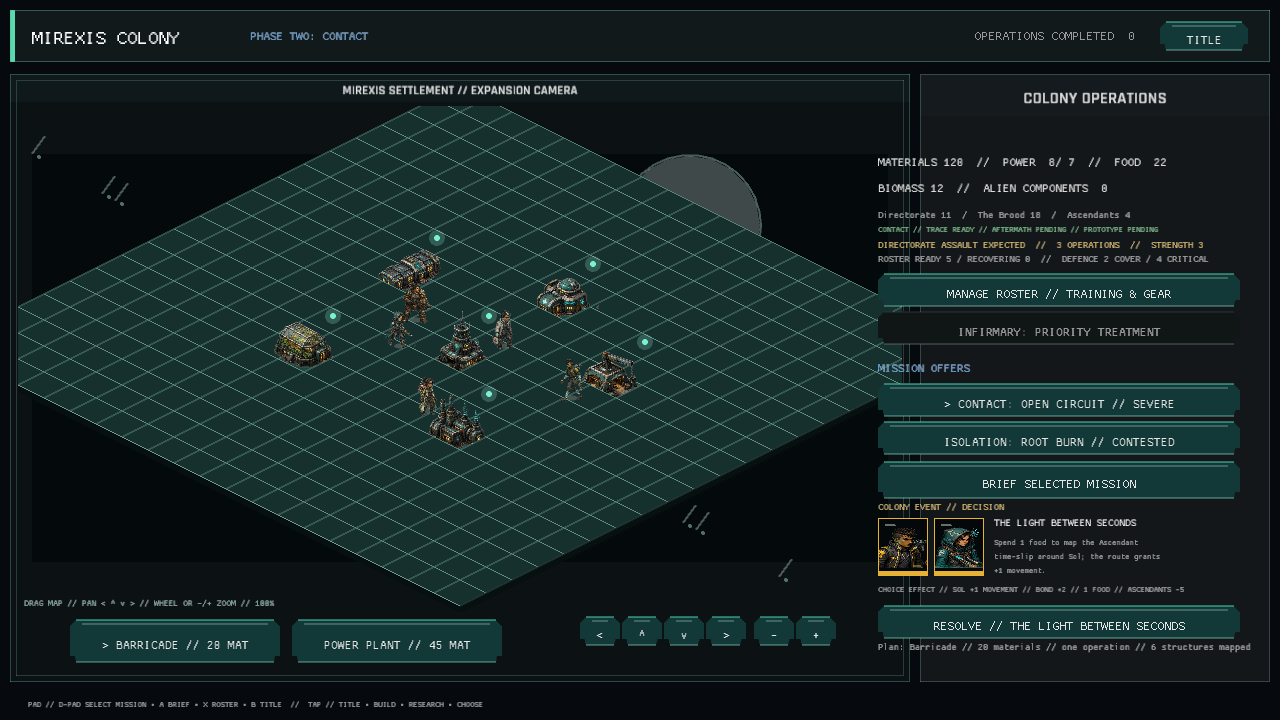
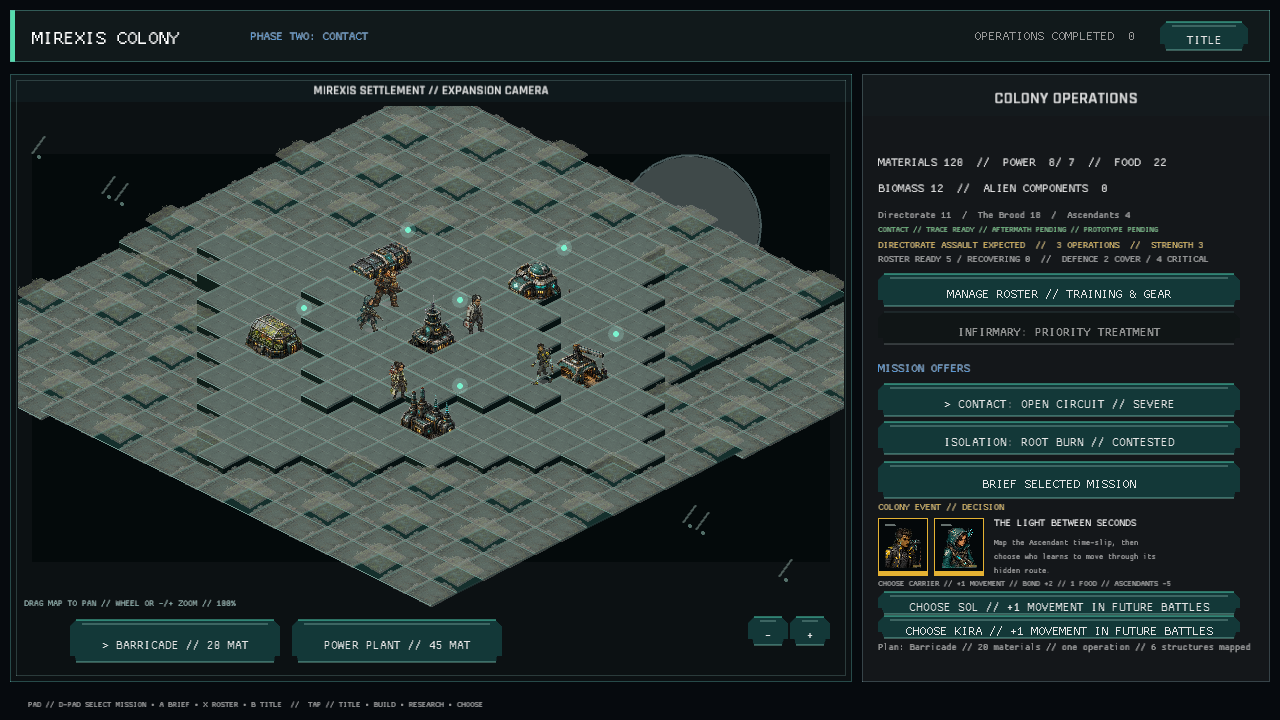
Every colony event leaves its legacy with the colonist who accepts it (two-participant event choices)
Colony events previously resolved through one button even though their fiction presented two participants and a lasting combat consequence. Replace that automatic outcome with two visible tap targets, each naming the participant and the exact stat carried into future battles.

Route the selected participant through campaign resolution, validate the choice before spending resources, and attach the existing persistent event legacy to that colonist. Keep the legacy default resolver for capture and migration fixtures. Refresh event copy, add coverage for alternative and invalid selections, and replace the canonical contact-event verification capture.

Validation: cargo test (221 unit tests plus the source-size guard), capture audit (85 scenes), and publish.ps1 all pass.

diff --git a/src/campaign.rs b/src/campaign.rs
@@ -351,11 +351,44 @@ impl CampaignState {
     }
 
     pub fn resolve_first_character_event(&mut self, data: &GameData) -> Result<String, String> {
+        let recipient_id = self
+            .strategy
+            .available_event()
+            .and_then(|event| {
+                (!event.legacy_character_id.is_empty())
+                    .then_some(event.legacy_character_id.as_str())
+            })
+            .or_else(|| {
+                self.strategy.available_event().and_then(|event| {
+                    data.campaign
+                        .events
+                        .iter()
+                        .find(|definition| definition.id == event.id)
+                        .map(|definition| definition.legacy_character_id.as_str())
+                })
+            })
+            .ok_or_else(|| "No event legacy recipient".to_owned())?
+            .to_owned();
+        self.resolve_first_character_event_for(&recipient_id, data)
+    }
+
+    pub fn resolve_first_character_event_for(
+        &mut self,
+        recipient_id: &str,
+        data: &GameData,
+    ) -> Result<String, String> {
         let event = self
             .strategy
             .available_event()
             .cloned()
             .ok_or_else(|| "No unresolved character events".to_owned())?;
+        if !event
+            .participants
+            .iter()
+            .any(|participant| participant == recipient_id)
+        {
+            return Err("Choose one of the event participants".to_owned());
+        }
         let data_legacy = data
             .campaign
             .events
@@ -364,29 +397,26 @@ impl CampaignState {
             .map(|definition| {
                 (
                     definition.legacy_name.clone(),
-                    definition.legacy_character_id.clone(),
                     definition.legacy_stat.clone(),
                     definition.legacy_amount,
                 )
             });
-        let (legacy_name, legacy_character_id, legacy_stat, legacy_amount) =
-            if event.legacy_amount != 0 {
-                (
-                    event.legacy_name.clone(),
-                    event.legacy_character_id.clone(),
-                    event.legacy_stat.clone(),
-                    event.legacy_amount,
-                )
-            } else {
-                data_legacy.unwrap_or_default()
-            };
+        let (legacy_name, legacy_stat, legacy_amount) = if event.legacy_amount != 0 {
+            (
+                event.legacy_name.clone(),
+                event.legacy_stat.clone(),
+                event.legacy_amount,
+            )
+        } else {
+            data_legacy.unwrap_or_default()
+        };
         if legacy_amount != 0
             && !self
                 .roster
                 .iter()
-                .any(|character| character.id == legacy_character_id)
+                .any(|character| character.id == recipient_id)
         {
-            return Err(format!("Unknown legacy recipient: {}", legacy_character_id));
+            return Err(format!("Unknown legacy recipient: {}", recipient_id));
         }
         let title = self.strategy.resolve_first_event(&mut self.colony)?;
         self.strengthen_event_participants(&event.participants);
@@ -394,7 +424,7 @@ impl CampaignState {
             let character = self
                 .roster
                 .iter_mut()
-                .find(|character| character.id == legacy_character_id)
+                .find(|character| character.id == recipient_id)
                 .expect("legacy recipient was validated before event mutation");
             if !character
                 .event_legacies

diff --git a/src/colony_ui.rs b/src/colony_ui.rs
@@ -597,11 +597,6 @@ fn draw_character_event(
         .events
         .iter()
         .find(|definition| definition.id == event.id);
-    let legacy_character_id = if event.legacy_character_id.is_empty() {
-        definition.map_or("", |definition| definition.legacy_character_id.as_str())
-    } else {
-        event.legacy_character_id.as_str()
-    };
     let legacy_stat = if event.legacy_stat.is_empty() {
         definition.map_or("", |definition| definition.legacy_stat.as_str())
     } else {
@@ -629,17 +624,6 @@ fn draw_character_event(
         510.0,
         TextStyle::new(12.0, dark::WARNING).params(),
     );
-    let recipient = campaign
-        .roster
-        .iter()
-        .find(|character| character.id == legacy_character_id)
-        .map_or("UNKNOWN", |character| {
-            character
-                .name
-                .split_whitespace()
-                .next()
-                .unwrap_or("UNKNOWN")
-        });
     if let Some(definition) = definition {
         for (index, participant) in definition.participants.iter().take(2).enumerate() {
             if let Some(character) = campaign
@@ -678,8 +662,7 @@ fn draw_character_event(
     }
     draw_ui_text_ex(
         &format!(
-            "CHOICE EFFECT // {} {:+} {} // BOND +2 // {} FOOD // {} {:+}",
-            recipient.to_uppercase(),
+            "CHOOSE CARRIER // {:+} {} // BOND +2 // {} FOOD // {} {:+}",
             legacy_amount,
             legacy_stat.to_uppercase(),
             event.food_cost,
@@ -687,16 +670,35 @@ fn draw_character_event(
             event.attention_change
         ),
         878.0,
-        592.0,
+        586.0,
         TextStyle::new(10.0, dark::TEXT_DIM).params(),
     );
-    if colony_button(
-        Rect::new(878.0, 606.0, 362.0, 32.0),
-        &format!("RESOLVE // {}", event.title.to_uppercase()),
-        true,
-        mouse,
-    ) {
-        actions.push(UiAction::ResolveCharacterEvent);
+    for (index, participant_id) in event.participants.iter().take(2).enumerate() {
+        let Some(character) = campaign
+            .roster
+            .iter()
+            .find(|character| &character.id == participant_id)
+        else {
+            continue;
+        };
+        let first_name = character
+            .name
+            .split_whitespace()
+            .next()
+            .unwrap_or(&character.name);
+        if colony_button(
+            Rect::new(878.0, 592.0 + index as f32 * 24.0, 362.0, 22.0),
+            &format!(
+                "CHOOSE {} // {:+} {} IN FUTURE BATTLES",
+                first_name.to_uppercase(),
+                legacy_amount,
+                legacy_stat.to_uppercase()
+            ),
+            true,
+            mouse,
+        ) {
+            actions.push(UiAction::ResolveCharacterEvent(participant_id.clone()));
+        }
     }
 }
 

diff --git a/src/campaign/tests/test_part_1.rs b/src/campaign/tests/test_part_1.rs
@@ -379,6 +379,48 @@ fn character_events_leave_participant_legacies_in_later_deployments() {
     );
     assert_eq!(campaign.relationships.len(), 2);
 }
+
+#[test]
+fn character_event_choice_puts_the_legacy_on_the_selected_participant() {
+    let data = GameData::load().unwrap();
+    let mut campaign = CampaignState::new(&data);
+    let kira_base = data
+        .roster
+        .iter()
+        .find(|unit| unit.id == "kira_voss")
+        .unwrap();
+    let movement_before = derive_unit(kira_base, &campaign.roster[0], &data).move_range;
+    let food_before = campaign.colony.resources.food;
+
+    assert_eq!(
+        campaign.resolve_first_character_event_for("not_a_participant", &data),
+        Err("Choose one of the event participants".to_owned())
+    );
+    assert_eq!(campaign.colony.resources.food, food_before);
+
+    campaign
+        .resolve_first_character_event_for("kira_voss", &data)
+        .unwrap();
+
+    let kira = campaign
+        .roster
+        .iter()
+        .find(|character| character.id == "kira_voss")
+        .unwrap();
+    let sol = campaign
+        .roster
+        .iter()
+        .find(|character| character.id == "sol_cairn")
+        .unwrap();
+    assert_eq!(kira.event_legacies[0].name, "Survey Family Routes");
+    assert!(sol.event_legacies.is_empty());
+    assert_eq!(
+        derive_unit(kira_base, kira, &data).move_range,
+        movement_before + 1
+    );
+    assert_eq!(campaign.colony.resources.food, food_before - 2);
+}
+
 #[test]
 fn successful_operations_apply_all_recovered_resources() {
     let data = GameData::load().unwrap();

diff --git a/src/game.rs b/src/game.rs
@@ -375,8 +375,11 @@ impl Game {
                     Err(err) => self.notifications.warning(err),
                 }
             }
-            UiAction::ResolveCharacterEvent => {
-                match self.campaign.resolve_first_character_event(&self.data) {
+            UiAction::ResolveCharacterEvent(character_id) => {
+                match self
+                    .campaign
+                    .resolve_first_character_event_for(&character_id, &self.data)
+                {
                     Ok(title) => {
                         self.notifications
                             .success(format!("Event resolved: {}", title));

diff --git a/src/ui_action.rs b/src/ui_action.rs
@@ -13,7 +13,7 @@ pub enum UiAction {
     ChooseEscalationResponse(String),
     ChooseMirexisPath(String),
     ChooseMutationEvolution(String, String),
-    ResolveCharacterEvent,
+    ResolveCharacterEvent(String),
     DeployMission,
     CycleFormation,
     ToggleDeployment(String),

diff --git a/docs/verification/FINAL_CAPTURE_INVENTORY.md b/docs/verification/FINAL_CAPTURE_INVENTORY.md
@@ -33,7 +33,7 @@ Manifest: `scripts/capture_ui.ps1`
[8 lines of base64/hex data omitted]
